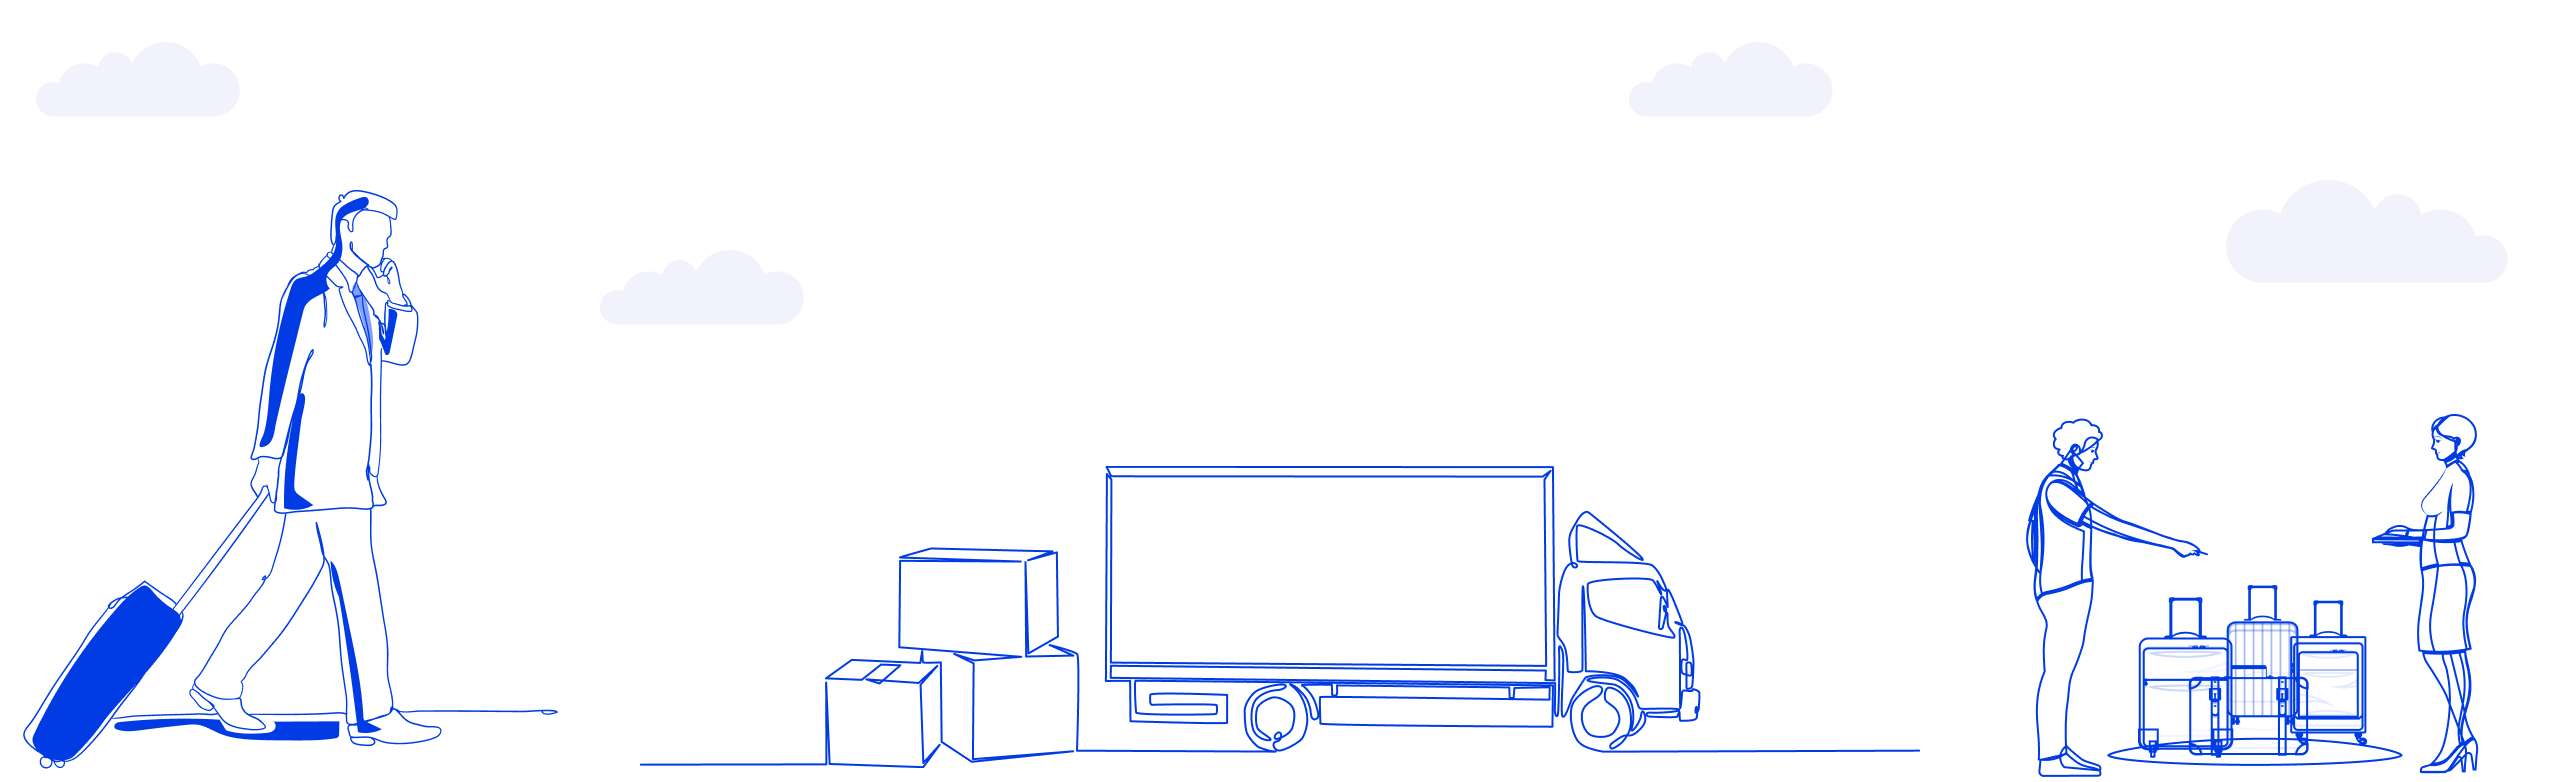
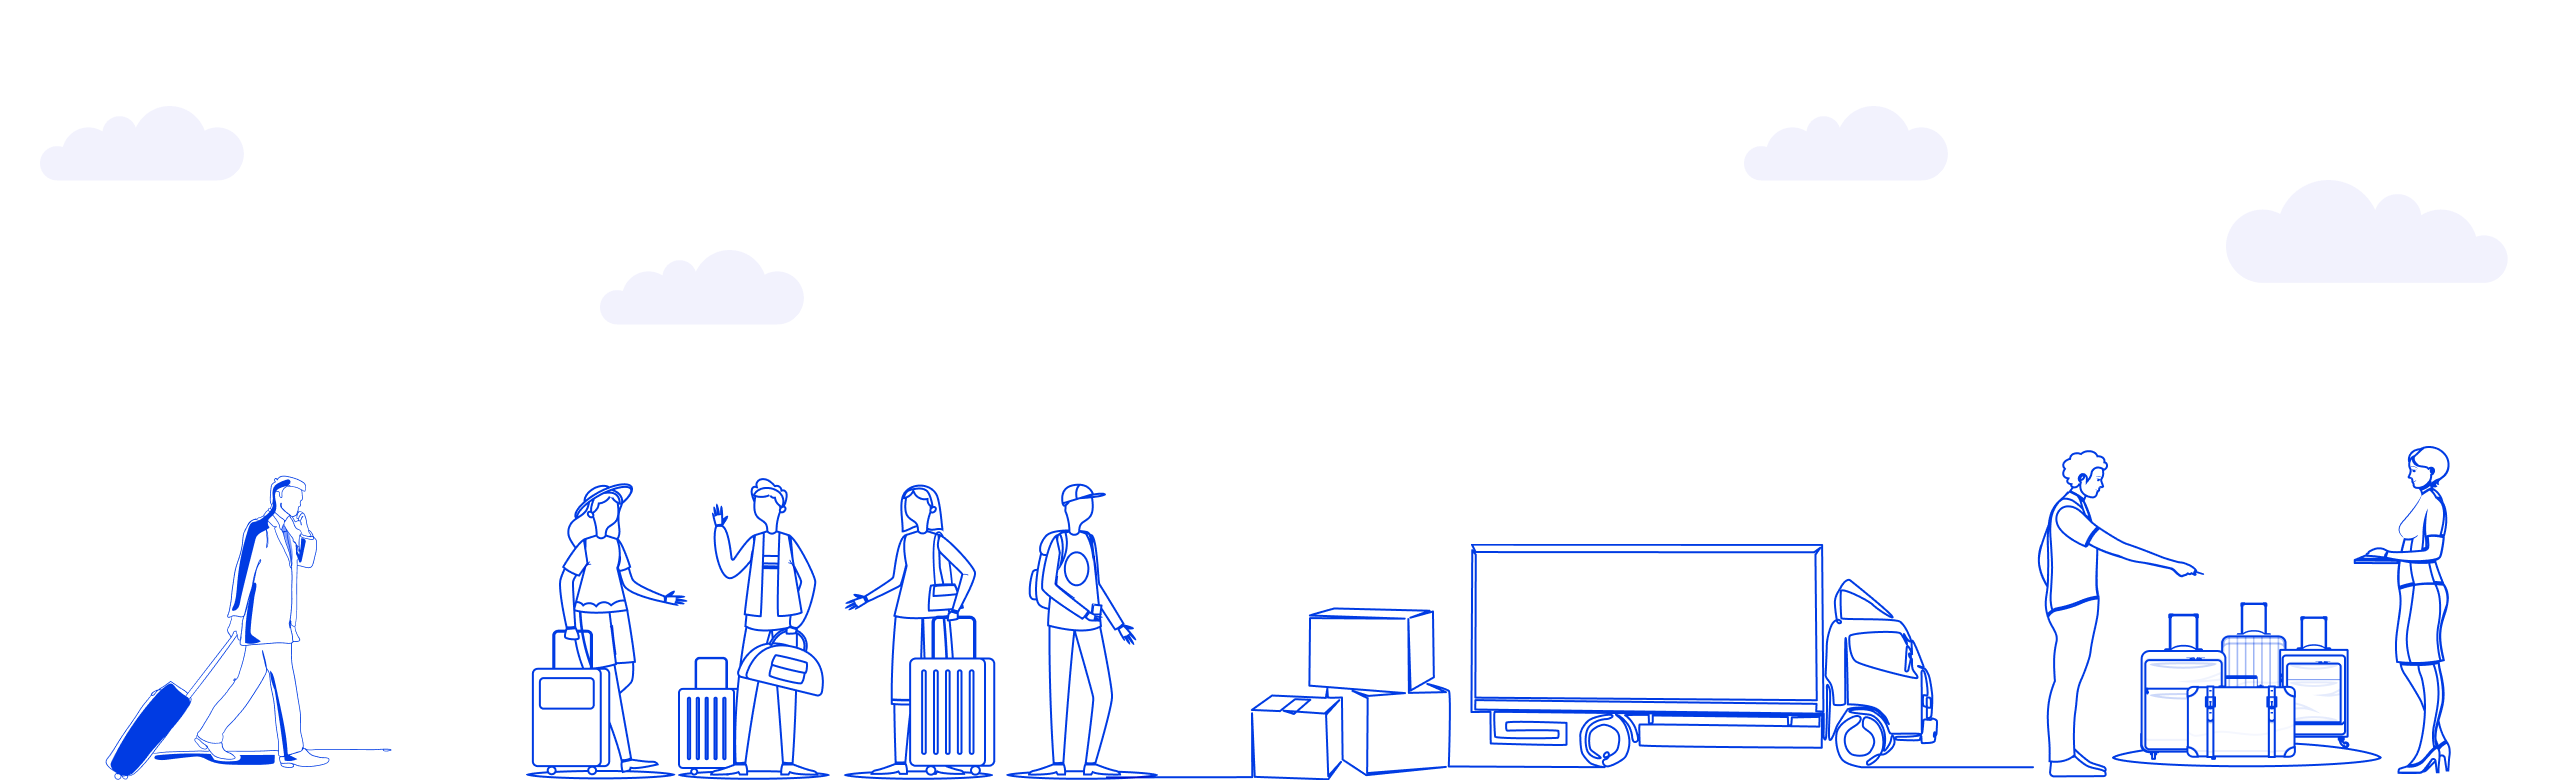
about page image update

diff --git a/components/Header.jsx b/components/Header.jsx
@@ -5,7 +5,7 @@ import { motion } from "framer-motion";
 import { Menu, ChevronDown } from "lucide-react";
 import Image from "next/image";
 import Link from "next/link";
-import Logo from "@/asset/frisbi_white.png"; // change path if needed
+import Logo from "@/asset/logo-black.svg"; // change path if needed
 import LogoBlack from "@/asset/logo-black.svg"; // change path if needed
 
 const servicesList = [
@@ -63,7 +63,7 @@ export default function Header({ mode = "default" }) {
         {/* Desktop Navigation */}
         <nav
           className={`hidden md:flex space-x-8 text-[15px] font-semibold transition-all duration-300
-            ${isDarkHeader || scroll ? "text-black" : "text-white"}
+            ${isDarkHeader || scroll ? "text-black" : "text-black"}
           `}
         >
           <div
@@ -75,8 +75,8 @@ export default function Header({ mode = "default" }) {
               className={`flex items-center gap-1 transition 
                 ${
                   isDarkHeader || scroll
-                    ? "hover:text-blue-600"
-                    : "hover:text-blue-300"
+                    ? "hover:text-[#013efe]"
+                    : "hover:text-[#013efe]"
                 }
               `}
             >
@@ -94,7 +94,7 @@ export default function Header({ mode = "default" }) {
                   <Link
                     key={index}
                     href={`/book/${item.toLowerCase().replace(/ /g, "-")}`}
-                    className="block px-4 py-2 text-black hover:bg-blue-50 hover:text-blue-600 transition"
+                    className="block px-4 py-2 text-black hover:bg-blue-50 hover:text-[#013efe] transition"
                   >
                     {item}
                   </Link>
@@ -107,8 +107,8 @@ export default function Header({ mode = "default" }) {
             href="/about"
             className={`${
               isDarkHeader || scroll
-                ? "hover:text-blue-600"
-                : "hover:text-blue-300"
+                ? "hover:text-[#013efe]"
+                : "hover:text-[#013efe]"
             } transition`}
           >
             About Us
@@ -124,8 +124,8 @@ export default function Header({ mode = "default" }) {
               className={`flex items-center gap-1 transition 
                 ${
                   isDarkHeader || scroll
-                    ? "hover:text-blue-600"
-                    : "hover:text-blue-300"
+                    ? "hover:text-[#013efe]"
+                    : "hover:text-[#013efe]"
                 }
               `}
             >
@@ -143,7 +143,7 @@ export default function Header({ mode = "default" }) {
                   <Link
                     key={index}
                     href={`/services/${item.toLowerCase().replace(/ /g, "-")}`}
-                    className="block px-4 py-2 text-black hover:bg-blue-50 hover:text-blue-600 transition"
+                    className="block px-4 py-2 text-black hover:bg-blue-50 hover:text-[#013efe] transition"
                   >
                     {item}
                   </Link>
@@ -156,8 +156,8 @@ export default function Header({ mode = "default" }) {
             href="/rate-calculator"
             className={`${
               isDarkHeader || scroll
-                ? "hover:text-blue-600"
-                : "hover:text-blue-300"
+                ? "hover:text-[#013efe]"
+                : "hover:text-[#013efe]"
             } transition`}
           >
             Rate Calculator
@@ -167,8 +167,8 @@ export default function Header({ mode = "default" }) {
             href="/faq"
             className={`${
               isDarkHeader || scroll
-                ? "hover:text-blue-600"
-                : "hover:text-blue-300"
+                ? "hover:text-[#013efe]"
+                : "hover:text-[#013efe]"
             } transition`}
           >
             FAQs
@@ -178,8 +178,8 @@ export default function Header({ mode = "default" }) {
             href="/contact-us"
             className={`${
               isDarkHeader || scroll
-                ? "hover:text-blue-600"
-                : "hover:text-blue-300"
+                ? "hover:text-[#013efe]"
+                : "hover:text-[#013efe]"
             } transition`}
           >
             Contact Us
@@ -220,14 +220,14 @@ export default function Header({ mode = "default" }) {
             <Link
               href="/"
               onClick={handleLinkClick}
-              className="hover:text-blue-600"
+              className="hover:text-[#013efe]"
             >
               Home
             </Link>
             <Link
               href="/about"
               onClick={handleLinkClick}
-              className="hover:text-blue-600"
+              className="hover:text-[#013efe]"
             >
               About Us
             </Link>
@@ -252,7 +252,7 @@ export default function Header({ mode = "default" }) {
                     key={i}
                     href={`/services/${item.toLowerCase().replace(/ /g, "-")}`}
                     onClick={handleLinkClick}
-                    className="text-gray-700 hover:text-blue-600 transition"
+                    className="text-gray-700 hover:text-[#013efe] transition"
                   >
                     {item}
                   </Link>
@@ -263,21 +263,21 @@ export default function Header({ mode = "default" }) {
             <Link
               href="/rate-calculator"
               onClick={handleLinkClick}
-              className="hover:text-blue-600"
+              className="hover:text-[#013efe]"
             >
               Rate Calculator
             </Link>
             <Link
               href="/faq"
               onClick={handleLinkClick}
-              className="hover:text-blue-600"
+              className="hover:text-[#013efe]"
             >
               FAQs
             </Link>
             <Link
               href="/contact-us"
               onClick={handleLinkClick}
-              className="hover:text-blue-600"
+              className="hover:text-[#013efe]"
             >
               Contact Us
             </Link>

diff --git a/page/StandardServices.jsx b/page/StandardServices.jsx
@@ -124,7 +124,7 @@ export default function Services() {
   return (
     <div className="-mt-24 -mt-16">
       {/* HERO */}
-      <section className="relative bg-light overflow-hidden">
+      <section className="relative bg-white overflow-hidden">
         <div className="container mx-auto px-4 py-28">
           <div className="grid grid-cols-1 md:grid-cols-2 gap-12 items-center">
             {/* LEFT — CONTENT (UNCHANGED) */}
@@ -133,18 +133,18 @@ export default function Services() {
                 {...fadeUp}
                 className="bg-white/10 px-6 py-2 rounded-full mb-6 inline-block"
               >
-                <p className="text-white">✨ Safe. Affordable. Reliable.</p>
+                <p className="text-black">✨ Safe. Affordable. Reliable.</p>
               </motion.div>
 
-              <motion.h1 {...fadeUp} className="text-white mb-6">
+              <motion.h1 {...fadeUp} className="text-black mb-6">
                 Standard Delivery
               </motion.h1>
 
-              <motion.p {...fadeUp} className="text-white max-w-2xl mb-6">
+              <motion.p {...fadeUp} className="text-black max-w-2xl mb-6">
                 India’s most affordable and reliable parcel delivery solution.
               </motion.p>
 
-              <motion.p {...fadeUp} className="text-white max-w-2xl mb-8">
+              <motion.p {...fadeUp} className="text-black max-w-2xl mb-8">
                 Perfect for: Documents, parcels, business shipments, e-commerce
                 orders, and personal packages.
               </motion.p>
@@ -152,14 +152,14 @@ export default function Services() {
               <motion.div {...fadeUp} className="flex gap-4">
                 <Link
                   href="#contact"
-                  className="btn-white hover:scale-105 transition-all"
+                  className="btn-primary hover:scale-105 transition-all"
                 >
                   Book Now
                 </Link>
 
                 <Link
                   href="/rate-calculator"
-                  className="btn-white-outline hover:scale-105 transition-all"
+                  className="btn-primary-outline hover:scale-105 transition-all"
                 >
                   Rate Calculator
                 </Link>

diff --git a/page/About.jsx b/page/About.jsx
@@ -25,7 +25,7 @@ function Aboutus() {
         whileInView={{ opacity: 1, y: 0 }}
         transition={{ duration: 0.6 }}
         viewport={{ once: true }}
-        className="relative w-full h-[460px] md:h-[460px] overflow-hidden bg-light"
+        className="relative w-full h-[460px] md:h-[460px] overflow-hidden "
       >
         {/* Background Image */}
         <Image
@@ -38,11 +38,11 @@ function Aboutus() {
   {/* <div className="absolute inset-0 bg-black/30 " /> */}
         {/* CONTENT */}
         <div className="relative z-10 flex flex-col items-center justify-center h-full text-center px-4 max-w-3xl mx-auto">
-          <h1 className="text-white text-3xl md:text-4xl font-semibold mb-4">
+          <h1 className="text-black text-3xl md:text-4xl font-semibold mb-4">
             Hi! 👋 We are Frisbi
           </h1>
 
-          <p className="text-white/90 mb-8 text-sm md:text-base">
+          <p className="text-black mb-8 text-sm md:text-base">
             India’s trusted luggage delivery service, built to make travel
             lighter, smarter, and stress-free.
           </p>
@@ -50,12 +50,16 @@ function Aboutus() {
           {/* CTA */}
           <Link
             href="/contact-us"
-            className="btn-white hover:scale-105 transition-all"
+            className="btn-primary hover:scale-105 transition-all"
           >
             Contact Us
           </Link>
         </div>
       </motion.section>
+
+      <section className="container mx-auto px-4 py-16 ">
+        <MarqueeLogos />
+      </section>
 
       <section className="container mx-auto px-4 py-24 pb-0">
         {/* GRID */}
@@ -119,9 +123,7 @@ function Aboutus() {
         </div>
       </section>
 
-      <section className="container mx-auto px-4 pb-16 ">
-        <MarqueeLogos />
-      </section>
+      
 
       <section className="py-24">
         <Stats
